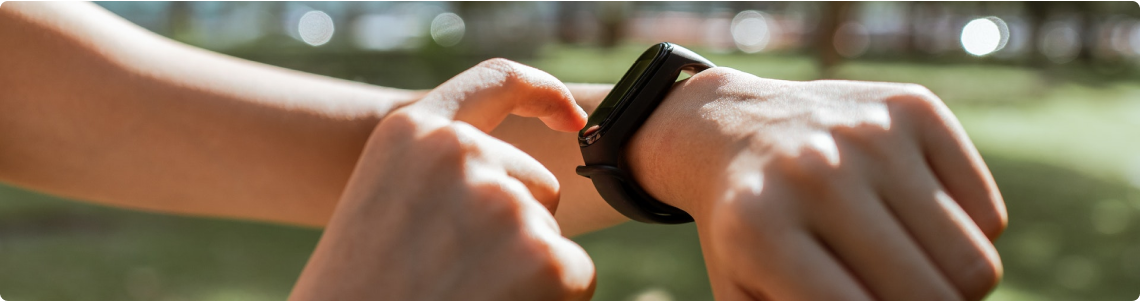
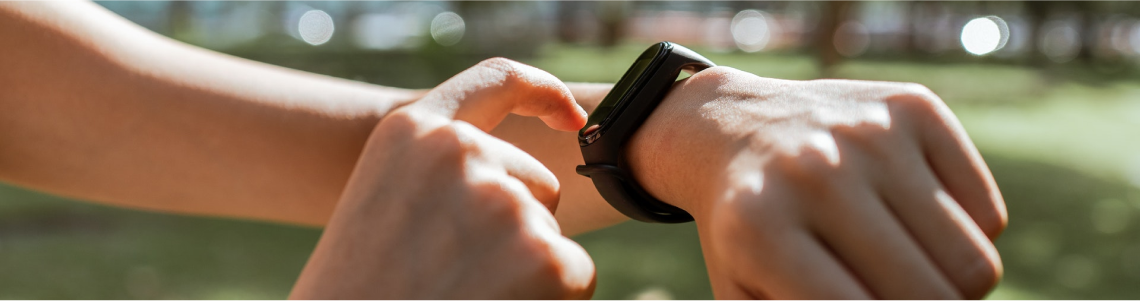
final version

diff --git a/index.html b/index.html
@@ -89,6 +89,33 @@
       </section>
       <!-- Plan End -->
 
+      <!-- Dream start -->
+      <section>
+        <div class="container">
+          <div class="dream-container">
+            <div class="dream-info">
+              <h2 class="dream-title">My goal is Work with Jonkar vai</h2>
+              <p class="dream-description">
+                Contrary to popular belief, Lorem Ipsum is not simply random
+                text. It has roots in a piece of classical Latin literature from
+                45 BC, making it over 2000 years old. Richard McClintock.
+              </p>
+              <ul class="dream-list">
+                <li>Contrary to popular belief, is not simply.</li>
+                <li>Contrary to popular belief.</li>
+                <li>Contrary to popular , is not simply.</li>
+                <li>Contrary to popular belief, is not simply.</li>
+                <li>Contrary to popular simply.</li>
+              </ul>
+            </div>
+            <div class="dream-image">
+              <img src="./images/dream1.png" alt="dreem" />
+            </div>
+          </div>
+        </div>
+      </section>
+      <!-- Dream end -->
+
       <!-- Call to action start -->
       <section>
         <div class="container">
@@ -128,7 +155,7 @@
           </div>
           <div class="subscribe">
             <h6 class="title">Subscribe</h6>
-            <input class="email" type="text" placeholder="Enter your email" />
+            <input class="email" type="email" placeholder="Enter your email" />
             <div class="btn">
               <input class="btn-secondery" type="submit" value="Subscribe" />
             </div>

diff --git a/css/style.css b/css/style.css
@@ -132,6 +132,41 @@ header {
 }
 /* Plan end */
 
+/* Dream Start */
+.dream-container {
+  display: flex;
+  align-items: center;
+  padding: 60px 0;
+}
+
+.dream-info {
+  margin-right: 86px;
+}
+.dream-title {
+  width: 350px;
+  font-size: 40px;
+  font-weight: 700;
+  color: #151414;
+}
+.dream-description {
+  width: 416px;
+  margin-top: 24px;
+  margin-bottom: 16px;
+}
+.dream-list {
+  list-style: none;
+}
+.dream-list li {
+  color: #151414;
+  margin-bottom: 8px;
+}
+.dream-list li::before {
+  content: "✓";
+  margin-right: 10px;
+  color: #16d887;
+}
+/* Dream end */
+
 /* Call to action start*/
 .call-action {
   margin: 130px 0;
@@ -141,7 +176,7 @@ header {
       rgba(240, 91, 34, 100%),
       rgba(240, 91, 34, 0%)
     ),
-    url("../images/watch-2.png");
+    url("../images/watch.png");
   background-size: cover;
   border-radius: 8px;
 }
@@ -195,6 +230,8 @@ footer {
 .subscribe .email {
   width: 325px;
   border: 1px solid #ffffff;
+  color: #ffffff;
+  font-size: 25px;
   background-color: transparent;
   padding: 22px;
   border-radius: 8px;
